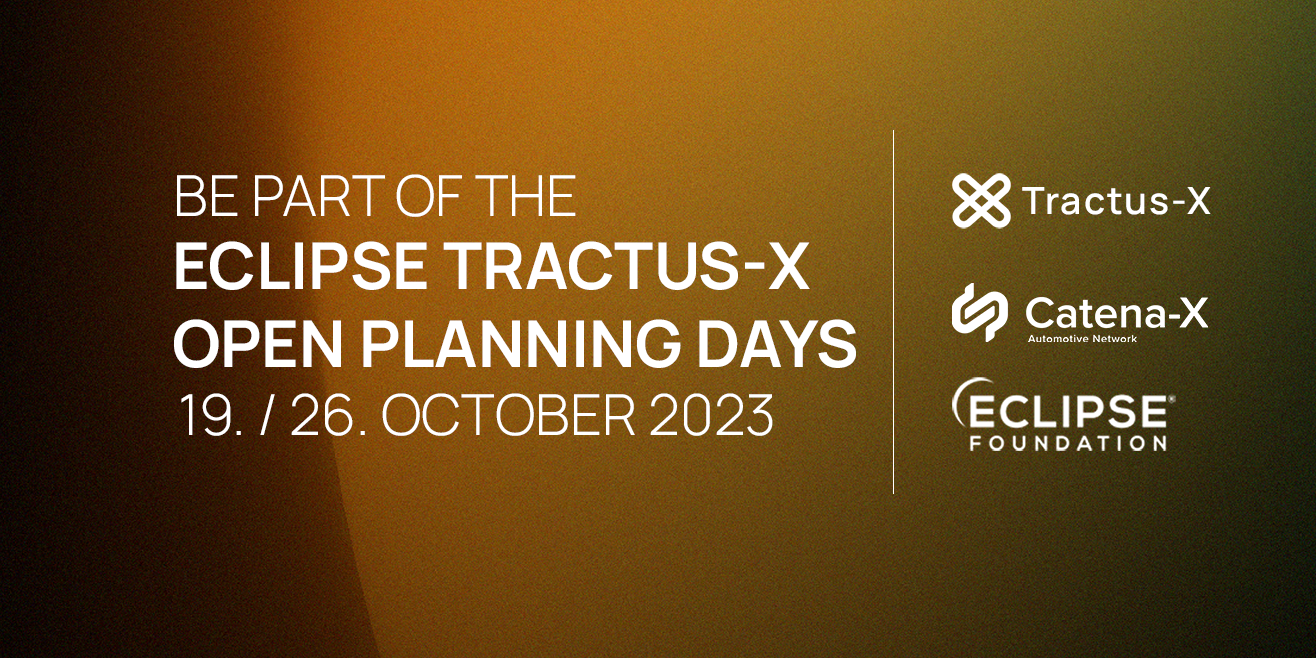
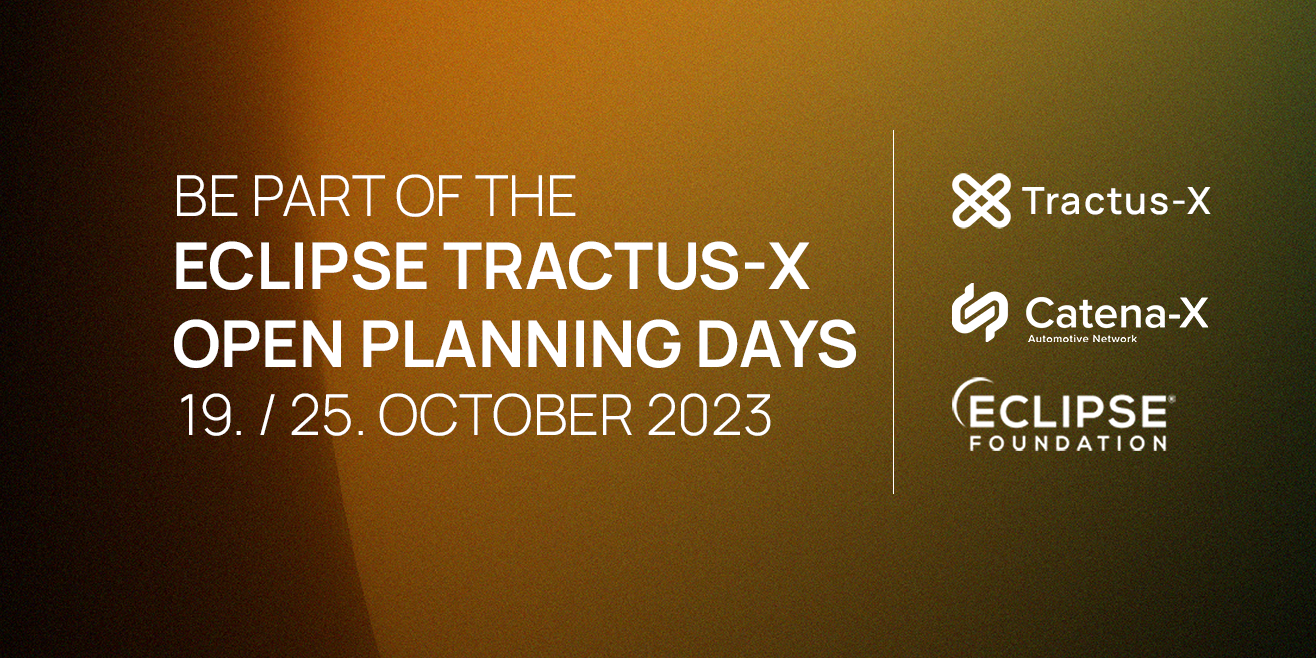
Adapt date and tables
move date from 26. -> 25.
SessionLink removed

Changed region(s): [[0.2492, 0.5775, 0.5919, 0.6687]]

diff --git a/utils/newsTitles.js b/utils/newsTitles.js
@@ -1,7 +1,7 @@
 export const newsTitles = [
   {
     date: "04.10.2023",
-    title: "Open Source Planning for Tractus-X on 18. / 26. October, 2023",
+    title: "Open Source Planning for Tractus-X on 19. / 25. October, 2023",
     blogLink: "/blog/open-planning-days"
   },
   {
